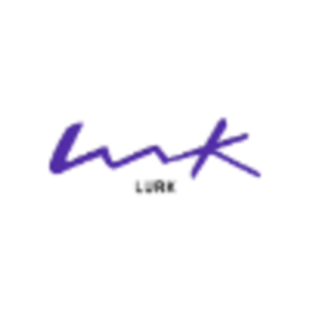
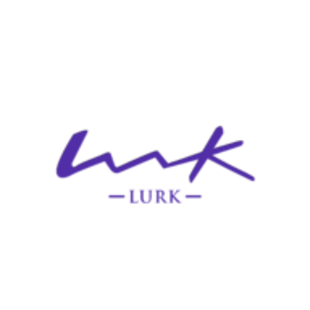
performance increased

Changed region(s): [[0.1452, 0.3774, 0.8419, 0.6677]]

diff --git a/src/components/RecommendedCarousal.js b/src/components/RecommendedCarousal.js
@@ -4,7 +4,7 @@ import RecommendedCard from "./RecommendedCard";
 import Loader from "./PagePreLoader";
 import Message from "./Message";
 import { listTopProducts } from "../actions/productActions";
-import BgImg from "../assets/bg-image.jpg";
+import BgImg from "../assets/bg-image.svg";
 //if bg is true render background
 const RecommendedCarousal = ({ bg }) => {
   const dispatch = useDispatch();

diff --git a/src/components/layout/Header.js b/src/components/layout/Header.js
@@ -38,7 +38,7 @@ const Header = ({ position }) => {
         <Col xs={6} md={4} className="m-auto order-1 order-md-1">
           <Navbar.Brand>
             <a href="/">
-              <img src={Logo} height="30px" alt="logo" />
+              <img src={Logo} height="40px" alt="logo" />
             </a>
           </Navbar.Brand>
         </Col>
